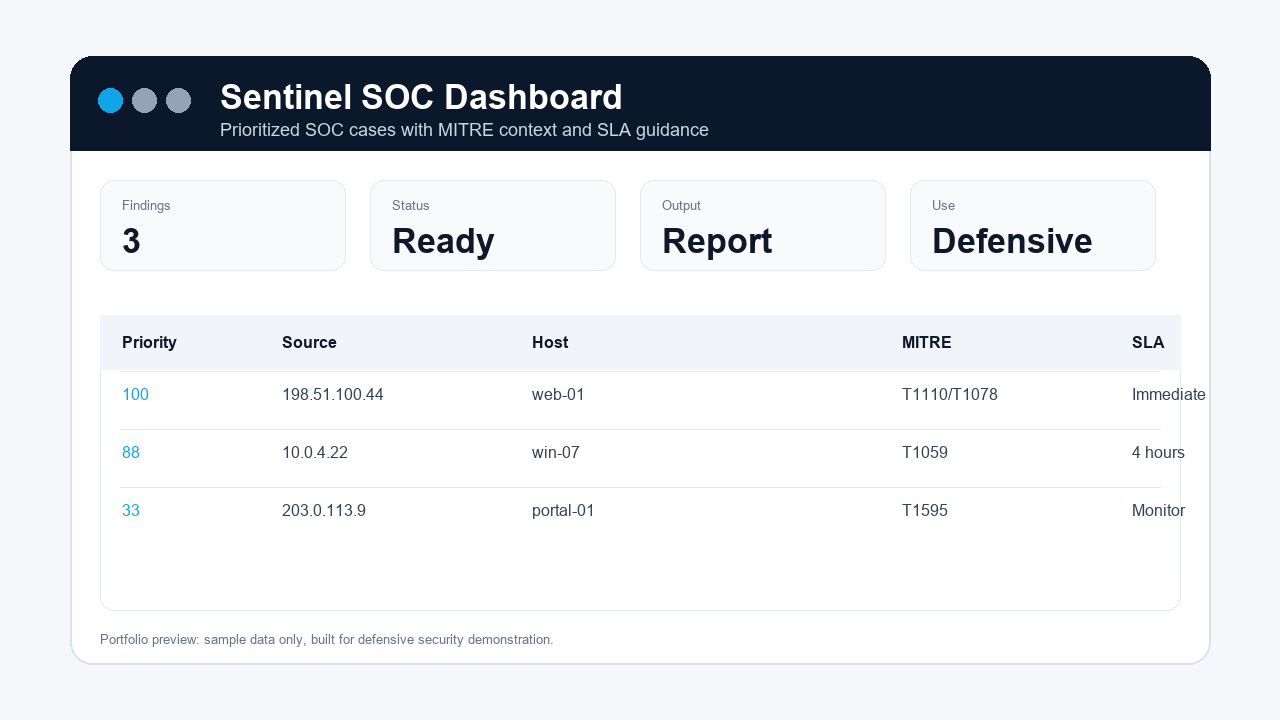
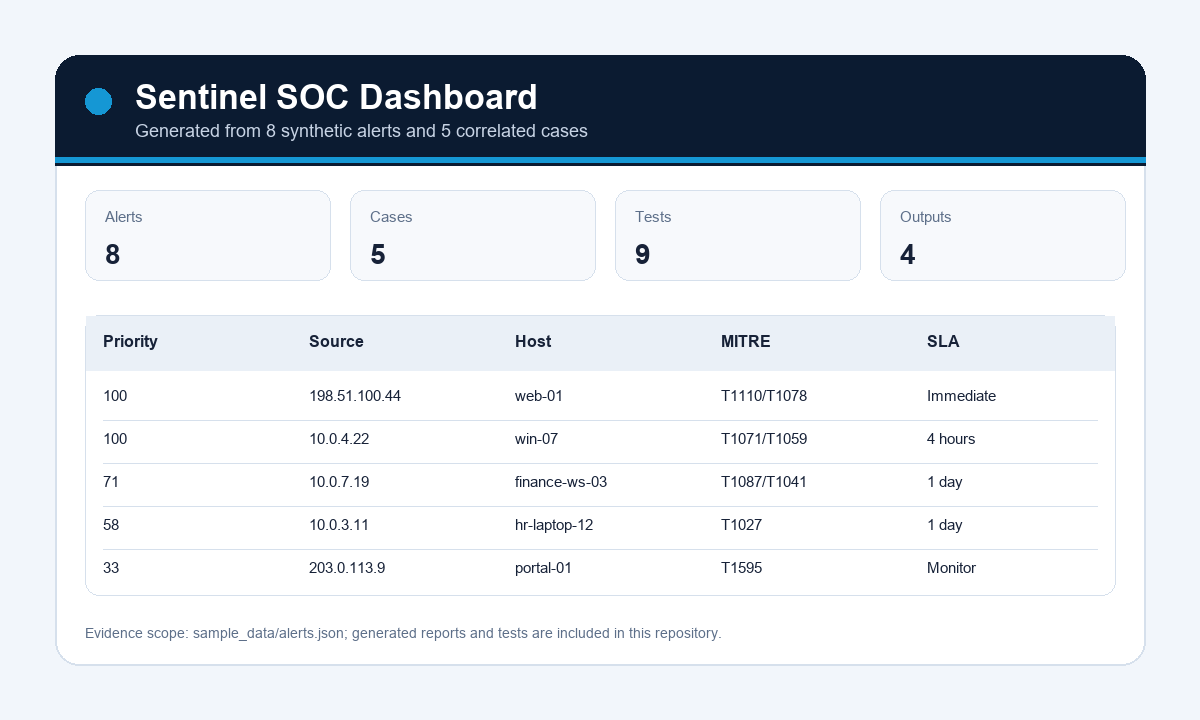
Harden SOC triage evidence and reporting

diff --git a/src/sentinel_soc_dashboard/core.py b/src/sentinel_soc_dashboard/core.py
@@ -5,6 +5,7 @@ import json
 from collections import Counter, defaultdict
 from dataclasses import dataclass
 from datetime import datetime
+from html import escape
 from pathlib import Path
 from typing import Any
 
@@ -61,10 +62,18 @@ class TriageConfig:
 
 
 def load_config(path: str | Path | None = None) -> TriageConfig:
-    raw = DEFAULT_CONFIG | {}
+    raw = {
+        **DEFAULT_CONFIG,
+        "severity_weight": dict(DEFAULT_CONFIG["severity_weight"]),
+        "sla": dict(DEFAULT_CONFIG["sla"]),
+    }
     if path:
         override = json.loads(Path(path).read_text(encoding="utf-8"))
-        raw.update(override)
+        for key, value in override.items():
+            if key in {"severity_weight", "sla"}:
+                raw[key].update(value)
+            else:
+                raw[key] = value
     return TriageConfig(
         severity_weight={key.lower(): int(value) for key, value in raw["severity_weight"].items()},
         volume_points_per_alert=int(raw["volume_points_per_alert"]),
@@ -76,6 +85,13 @@ def load_config(path: str | Path | None = None) -> TriageConfig:
 
 def load_alerts(path: str | Path) -> list[Alert]:
     rows = json.loads(Path(path).read_text(encoding="utf-8"))
+    if not isinstance(rows, list):
+        raise ValueError("Alert input must be a JSON array.")
+    allowed_severities = set(SEVERITY_WEIGHT)
+    for index, row in enumerate(rows):
+        severity = str(row.get("severity", "")).lower()
+        if severity not in allowed_severities:
+            raise ValueError(f"Alert {index} has unsupported severity: {severity or 'missing'}")
     return [
         Alert(
             timestamp=datetime.fromisoformat(row["timestamp"]),
@@ -173,6 +189,7 @@ def summary(alerts: list[Alert]) -> dict[str, object]:
 
 
 def write_csv(cases: list[dict[str, object]], path: str | Path) -> None:
+    _prepare_output(path)
     fieldnames = [
         "source_ip",
         "host",
@@ -194,13 +211,15 @@ def write_csv(cases: list[dict[str, object]], path: str | Path) -> None:
 
 
 def write_json(cases: list[dict[str, object]], path: str | Path) -> None:
+    _prepare_output(path)
     Path(path).write_text(json.dumps(cases, indent=2), encoding="utf-8")
 
 
 def write_markdown(cases: list[dict[str, object]], path: str | Path) -> None:
+    _prepare_output(path)
     rows = "\n".join(
-        f"| {case['priority']} | {case['sla']} | {case['source_ip']} | {case['host']} | "
-        f"{case['top_severity']} | {case['mitre']} | {case['recommended_action']} | {case['false_positive_handling']} |"
+        f"| {_md(case['priority'])} | {_md(case['sla'])} | {_md(case['source_ip'])} | {_md(case['host'])} | "
+        f"{_md(case['top_severity'])} | {_md(case['mitre'])} | {_md(case['recommended_action'])} | {_md(case['false_positive_handling'])} |"
         for case in cases
     )
     Path(path).write_text(
@@ -215,13 +234,14 @@ def write_markdown(cases: list[dict[str, object]], path: str | Path) -> None:
 
 
 def write_html(alerts: list[Alert], cases: list[dict[str, object]], path: str | Path) -> None:
+    _prepare_output(path)
     counts = summary(alerts)
     rows = "\n".join(
-        f"<tr><td>{case['priority']}</td><td>{case['source_ip']}</td><td>{case['host']}</td>"
-        f"<td>{case['top_severity']}</td><td>{case['open_alert_count']} open / {case['alert_count']} total</td>"
-        f"<td>{case['tactics']}</td><td>{case['mitre']}</td><td>{case['sla']}</td>"
-        f"<td>{case['recommended_action']}<br><strong>Notes:</strong> {case['analyst_notes']}<br>"
-        f"<strong>FP check:</strong> {case['false_positive_handling']}</td></tr>"
+        f"<tr><td>{case['priority']}</td><td>{escape(str(case['source_ip']))}</td><td>{escape(str(case['host']))}</td>"
+        f"<td>{escape(str(case['top_severity']))}</td><td>{case['open_alert_count']} open / {case['alert_count']} total</td>"
+        f"<td>{escape(str(case['tactics']))}</td><td>{escape(str(case['mitre']))}</td><td>{escape(str(case['sla']))}</td>"
+        f"<td>{escape(str(case['recommended_action']))}<br><strong>Notes:</strong> {escape(str(case['analyst_notes']))}<br>"
+        f"<strong>FP check:</strong> {escape(str(case['false_positive_handling']))}</td></tr>"
         for case in cases
     )
     html = f"""<!doctype html>
@@ -264,3 +284,11 @@ def case_summary(case: dict[str, Any]) -> str:
         f"Priority {case['priority']} case on {case['host']} from {case['source_ip']} "
         f"with {case['alert_count']} alert(s), mapped to {case['mitre']}."
     )
+
+
+def _prepare_output(path: str | Path) -> None:
+    Path(path).parent.mkdir(parents=True, exist_ok=True)
+
+
+def _md(value: object) -> str:
+    return str(value).replace("|", "\\|").replace("\n", " ")

diff --git a/tests/test_core.py b/tests/test_core.py
@@ -1,4 +1,7 @@
 import unittest
+import json
+import tempfile
+from pathlib import Path
 
 from sentinel_soc_dashboard.core import (
     Alert,
@@ -9,6 +12,7 @@ from sentinel_soc_dashboard.core import (
     load_config,
     recommendation,
     triage,
+    write_html,
 )
 from datetime import datetime
 
@@ -81,6 +85,35 @@ class SocTriageTests(unittest.TestCase):
 
         self.assertIn("alice", analyst_notes(alerts))
         self.assertIn("maintenance windows", false_positive_handling(alerts))
+
+    def test_partial_config_keeps_default_nested_values(self):
+        with tempfile.TemporaryDirectory() as directory:
+            path = Path(directory) / "config.json"
+            path.write_text(json.dumps({"sla": {"high": "Two hours"}}), encoding="utf-8")
+
+            config = load_config(path)
+
+        self.assertEqual(config.sla["high"], "Two hours")
+        self.assertEqual(config.sla["critical"], "Immediate escalation")
+        self.assertEqual(config.severity_weight["medium"], 45)
+
+    def test_invalid_severity_is_rejected(self):
+        with tempfile.TemporaryDirectory() as directory:
+            path = Path(directory) / "alerts.json"
+            path.write_text(json.dumps([{"timestamp": "2026-07-04T09:00:00", "title": "bad", "severity": "urgent"}]), encoding="utf-8")
+            with self.assertRaisesRegex(ValueError, "unsupported severity"):
+                load_alerts(path)
+
+    def test_html_report_escapes_alert_controlled_text(self):
+        alerts = [Alert(datetime(2026, 7, 4, 9, 0), "x", "high", "1.1.1.1", "<script>", "u", "Execution")]
+        cases = triage(alerts)
+        with tempfile.TemporaryDirectory() as directory:
+            path = Path(directory) / "nested" / "report.html"
+            write_html(alerts, cases, path)
+            report = path.read_text(encoding="utf-8")
+
+        self.assertIn("&lt;script&gt;", report)
+        self.assertNotIn("<td><script>", report)
 
 
 if __name__ == "__main__":